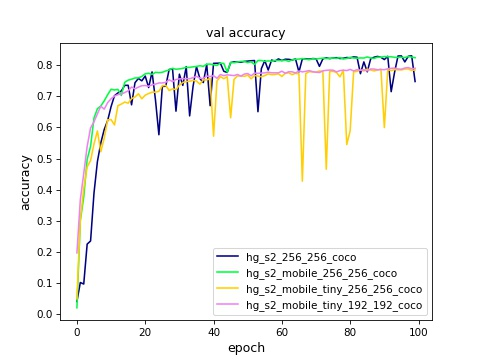
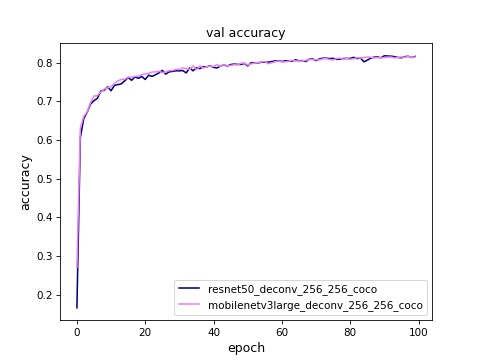
update train curve

diff --git a/simple_baselines/callbacks.py b/simple_baselines/callbacks.py
@@ -36,8 +36,8 @@ class EvalCallBack(Callback):
                               input_shape=self.model_input_shape, is_train=False, with_meta=True)
 
         # record model & dataset name to draw training curve
-        with open(os.path.join(self.log_dir, 'val.txt'), 'a+') as xfile:
-            xfile.write('model:' + model_type + ';dataset:' + self.eval_dataset.get_dataset_name() + '\n')
+        with open(os.path.join(self.log_dir, 'val.txt'), 'w+') as xfile:
+            xfile.write('model:' + model_type + '_' + '_'.join(map(str, model_input_shape)) + ';dataset:' + self.eval_dataset.get_dataset_name() + '\n')
         xfile.close()
 
     def on_epoch_end(self, epoch, logs=None):
